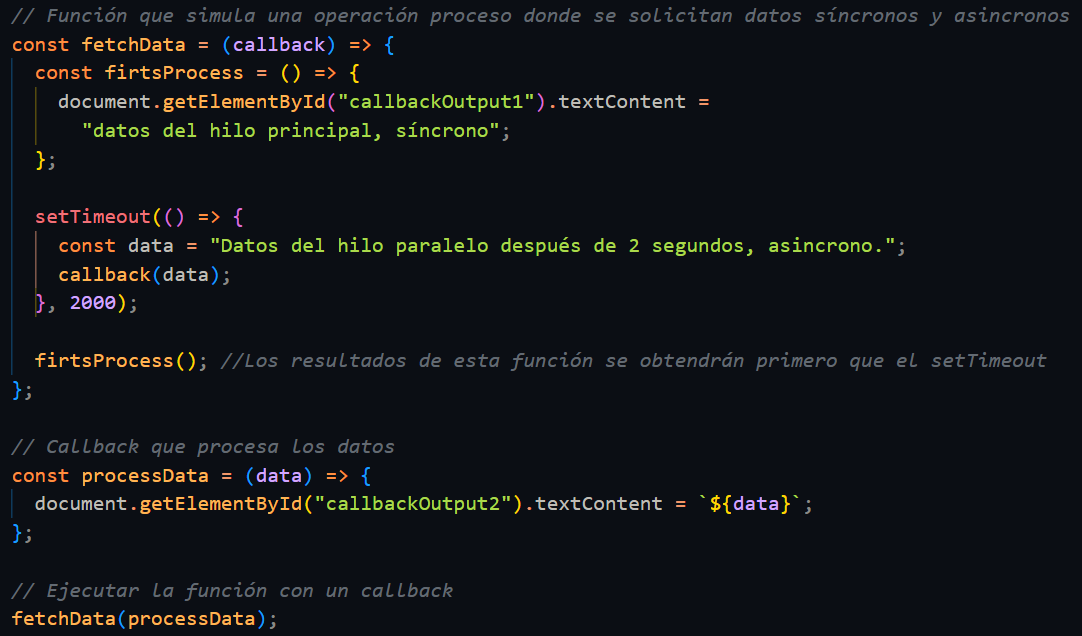
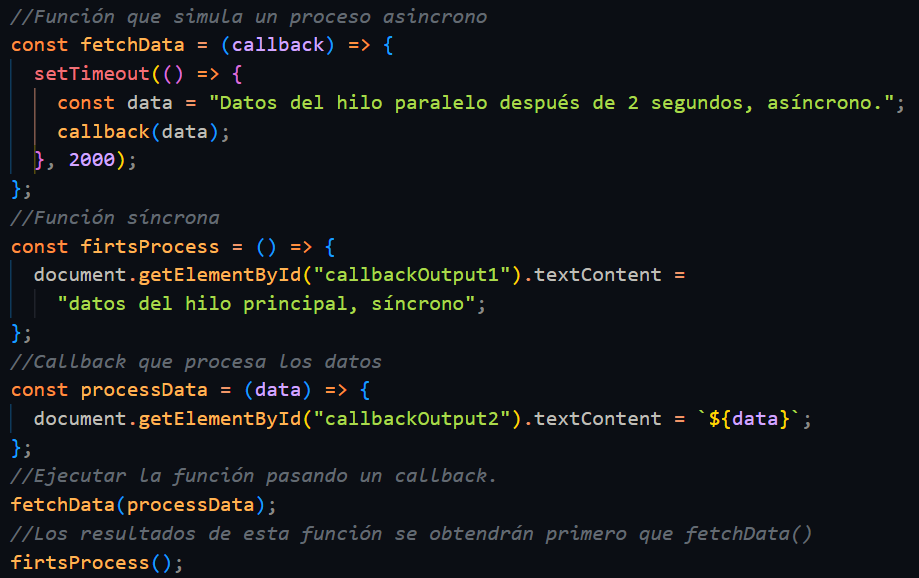
Se pone barra de navegación en header y se deja fija. Se pone el título abajo. Se agregan estilos adicionales. Se modifica azul principal del texto

Changed region(s): [[0.0, 0.0, 0.975, 0.9965], [0.8836, 0.0, 1.0, 0.0311], [0.7617, 0.7163, 0.8836, 0.7474]]

diff --git a/index.html b/index.html
@@ -11,19 +11,19 @@
 
 <body>
     <header>
-        <h1>Tutorial de Asincronismo en JavaScript</h1>
+        <nav class="index-bar">
+            <ul>
+                <li><a href="#glosario">Glosario</a></li>
+                <li><a href="#introduccion">Introducción</a></li>
+                <li><a href="#callbacks">Callbacks</a></li>
+                <li><a href="#promesas">Promesas</a></li>
+                <li><a href="#async-await">Async/Await</a></li>
+            </ul>
+        </nav>
     </header>
-    <nav>
-        <ul>
-            <li><a href="#glosario">Glosario</a></li>
-            <li><a href="#introduccion">Introducción</a></li>
-            <li><a href="#callbacks">Callbacks</a></li>
-            <li><a href="#promesas">Promesas</a></li>
-            <li><a href="#async-await">Async/Await</a></li>
-        </ul>
-    </nav>
     <main>
-        <section id="glosario">
+        <h1>Tutorial de Asincronismo en JavaScript</h1>
+        <section id="glosario" class="content-glosario">
             <h2>Glosario</h2>
             <dl>
                 <dt>Thread</dt>
@@ -116,7 +116,7 @@
                 completarse, como llamadas a una API o temporizadores.
             </p>
 
-            <p>Ejemplo de código:</p>
+            <p class="example-code">Ejemplo de código:</p>
             <div class="code-image">
                 <!-- Aquí debes agregar la imagen del código -->
                 <img src="./assets/callbackImg.png" alt="Código de ejemplo de callback">
@@ -146,7 +146,7 @@
                 hell".
             </p>
 
-            <p>Ejemplo de código:</p>
+            <p class="example-code">Ejemplo de código:</p>
             <div class="code-image">
                 <!-- Aquí debes agregar la imagen del código -->
                 <img src="./assets/promiseImg.png" alt="Código de ejemplo de Promesas">
@@ -172,7 +172,7 @@
                 <strong>async/await</strong> hace que el código sea más claro y fácil de leer.
             </p>
 
-            <p>Ejemplo de código:</p>
+            <p class="example-code">Ejemplo de código:</p>
             <div class="code-image">
                 <!-- Aquí debes agregar la imagen del código -->
                 <img src="./assets/asyncAwaitImg.png" alt="Código de ejemplo de Async/Await con fetch">
@@ -194,7 +194,7 @@
 
     </main>
     <footer>
-        <p>© 2024 - Tutorial de Asincronismo en JavaScript</p>
+        <p>© 2024 - Tutorial de Asincronismo en JavaScript, KortexCode</p>
     </footer>
     <script src="./main.js"></script>
 </body>

diff --git a/main.js b/main.js
@@ -2,28 +2,26 @@
 
 /*Ejemplo de Callbacks*/
 document.getElementById("runCallbackExample").addEventListener("click", () => {
-  // Función que simula una operación proceso donde se solicitan datos síncronos y asincronos
+  //Función que simula un proceso asincrono
   const fetchData = (callback) => {
-    const firtsProcess = () => {
-      document.getElementById("callbackOutput1").textContent =
-        "datos del hilo principal, síncrono";
-    };
-
     setTimeout(() => {
       const data = "Datos del hilo paralelo después de 2 segundos, asíncrono.";
       callback(data);
     }, 2000);
-
-    firtsProcess(); //Los resultados de esta función se obtendrán primero que el setTimeout
   };
-
-  // Callback que procesa los datos
+  //Función síncrona
+  const firtsProcess = () => {
+    document.getElementById("callbackOutput1").textContent =
+      "datos del hilo principal, síncrono";
+  };
+  //Callback que procesa los datos
   const processData = (data) => {
     document.getElementById("callbackOutput2").textContent = `${data}`;
   };
-
-  // Ejecutar la función con un callback
+  //Ejecutar la función pasando un callback.
   fetchData(processData);
+  //Los resultados de esta función se obtendrán primero que fetchData()
+  firtsProcess();
 });
 
 // Botón para limpiar la salida

diff --git a/styles/main.css b/styles/main.css
@@ -1,10 +1,12 @@
 /* styles.css */
 :root {
 
-    --mainText: #00bcd4;
+    /* --mainText: #00bcd4; */
+    --mainText: #31fff5;
 }
 
 body {
+    position: relative;
     margin: 0;
     font-family: 'Arial', sans-serif;
     background-color: #121212;
@@ -12,22 +14,26 @@ body {
 }
 
 header {
+    position: fixed;
+    top: 0;
+    width: 100%;
     text-align: center;
     padding: 1rem;
     background-color: #1e1e1e;
     box-shadow: 0 4px 6px rgba(0, 0, 0, 0.3);
 }
 
-header h1 {
+h1 {
+    display: inline-block;
     margin: 0;
+    margin-top: 60px;
     font-size: 2rem;
     color: var(--mainText);
 }
 
-nav {
+nav .index-bar{
     background-color: #1e1e1e;
     padding: 1rem 0;
-    box-shadow: 0 4px 6px rgba(0, 0, 0, 0.3);
 }
 
 nav ul {
@@ -59,6 +65,11 @@ main {
 }
 
 /* Glosario */
+.content-glosario {
+    display: inline-block;
+    margin-top: 60px;
+}
+
 dl {
     text-align: left;
     max-width: 600px;
@@ -148,6 +159,7 @@ button:hover {
 /* Botón de reset */
 button {
     margin-right: 0.5rem;
+    margin-top: 0.5rem;
 }
 
 .resetOutput {
@@ -178,6 +190,10 @@ button {
 #async-await .imgAsync {
     width: 300px;
     height: 200px;
+}
+
+.section-content .example-code {
+    font-weight: 600;
 }
 
 footer {
